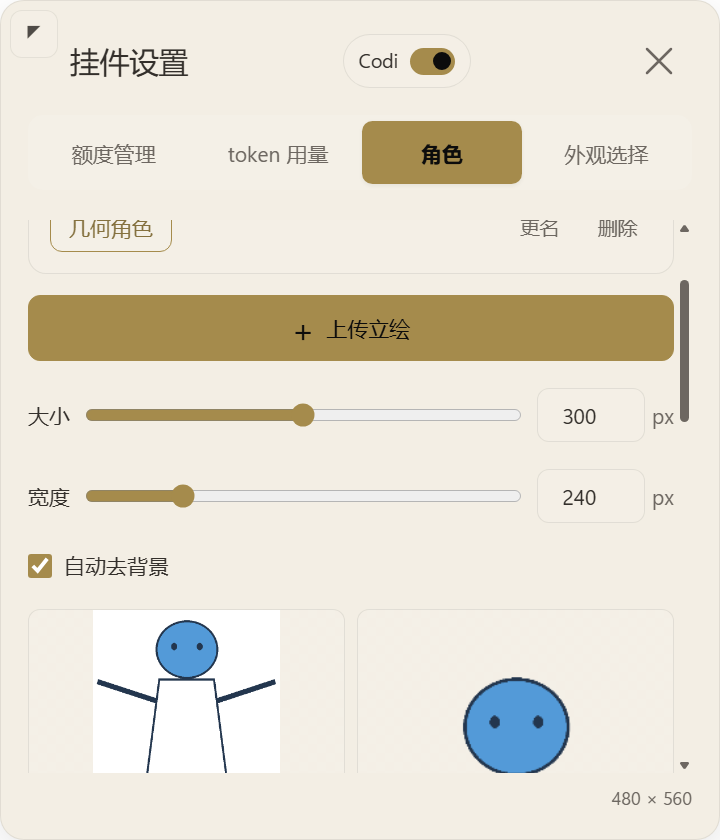
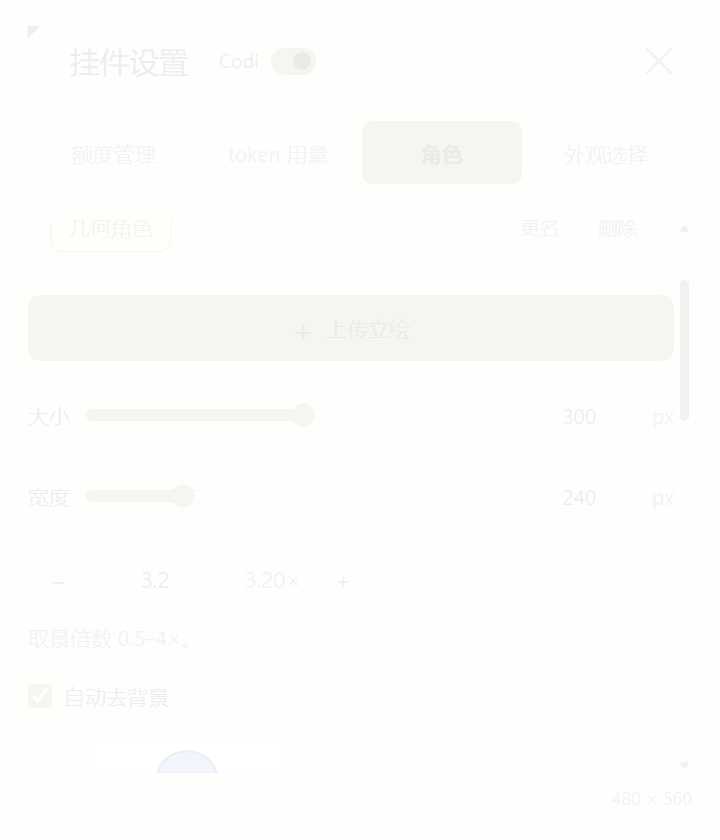
Simplify Codi setup and group widget controls

diff --git a/desktop/ui/index.html b/desktop/ui/index.html
@@ -6,7 +6,7 @@
 <div id="widget" role="button" tabindex="-1" aria-label="额度挂件，拖动移动，点击对话" data-i18n-aria-label="额度挂件，拖动移动，点击对话"><div id="resident-content"><div id="character-stage"><canvas id="character-canvas" width="288" height="160"></canvas></div><small id="window-label"></small><div class="compact-line"><div id="compact-track" class="track"><div id="compact-fill" class="fill"></div></div><strong id="status">暂无可用额度数据</strong><button id="settings-open" tabindex="-1" aria-label="设置" data-i18n-aria-label="设置" title="设置" data-i18n-title="设置">⚙</button></div></div></div>
 <button id="codi-launcher" type="button" role="switch" aria-checked="false" aria-label="开启 Codi" data-i18n-aria-label="开启 Codi" title="开启 Codi" data-i18n-title="开启 Codi" hidden><span>Codi</span><span class="codi-switch-track" aria-hidden="true"><i></i></span></button>
 <section id="speech" hidden aria-live="polite"><svg class="speech-cloud" viewBox="0 0 280 152" preserveAspectRatio="none" aria-hidden="true" focusable="false"><path d="M26 25 C17 6 58 0 85 12 C109 -1 156 3 169 14 C205 0 246 7 248 28 C277 35 282 69 260 81 C270 104 240 125 213 118 L189 140 L184 118 C156 130 120 126 104 116 C70 130 27 119 30 97 C4 97 -1 55 20 44 C12 35 17 28 26 25Z"/></svg><p id="speech-text"></p><div class="speech-data"><span id="speech-reset"></span><span id="speech-credits"></span></div></section>
-<section id="details" hidden aria-label="额度与用量详情" data-i18n-aria-label="额度与用量详情"><div class="panel-toolbar"><span class="panel-title" data-i18n="挂件设置">挂件设置</span><button id="codi-power" type="button" role="switch" aria-checked="true" aria-label="关闭 Codi" data-i18n-aria-label="关闭 Codi" title="关闭 Codi" data-i18n-title="关闭 Codi"><span>Codi</span><span class="codi-switch-track" aria-hidden="true"><i></i></span></button><button id="close" tabindex="-1" aria-label="收起详情" data-i18n-aria-label="收起详情"><svg viewBox="0 0 24 24" aria-hidden="true"><path d="M4 4L20 20M20 4L4 20"/></svg></button></div><header><nav role="tablist" aria-label="详情视图" data-i18n-aria-label="详情视图"><button id="quota-tab" role="tab" aria-selected="true" aria-controls="quota-panel" tabindex="-1" data-i18n="额度管理">额度管理</button><button id="token-tab" role="tab" aria-selected="false" aria-controls="token-panel" tabindex="-1" data-i18n="token 用量">token 用量</button><button id="character-tab" role="tab" aria-selected="false" aria-controls="character-panel" tabindex="-1" data-i18n="角色">角色</button><button id="appearance-tab" role="tab" aria-selected="false" aria-controls="appearance-panel" data-i18n="外观选择">外观选择</button></nav></header><div id="panel-body"><p id="panel-error" role="alert"></p>
+<section id="details" hidden aria-label="额度与用量详情" data-i18n-aria-label="额度与用量详情"><div class="panel-toolbar"><div class="panel-heading"><span class="panel-title" data-i18n="挂件设置">挂件设置</span><button id="codi-power" type="button" role="switch" aria-checked="true" aria-label="关闭 Codi" data-i18n-aria-label="关闭 Codi" title="关闭 Codi" data-i18n-title="关闭 Codi"><span>Codi</span><span class="codi-switch-track" aria-hidden="true"><i></i></span></button></div><button id="close" tabindex="-1" aria-label="收起详情" data-i18n-aria-label="收起详情"><svg viewBox="0 0 24 24" aria-hidden="true"><path d="M4 4L20 20M20 4L4 20"/></svg></button></div><header><nav role="tablist" aria-label="详情视图" data-i18n-aria-label="详情视图"><button id="quota-tab" role="tab" aria-selected="true" aria-controls="quota-panel" tabindex="-1" data-i18n="额度管理">额度管理</button><button id="token-tab" role="tab" aria-selected="false" aria-controls="token-panel" tabindex="-1" data-i18n="token 用量">token 用量</button><button id="character-tab" role="tab" aria-selected="false" aria-controls="character-panel" tabindex="-1" data-i18n="角色">角色</button><button id="appearance-tab" role="tab" aria-selected="false" aria-controls="appearance-panel" data-i18n="外观选择">外观选择</button></nav></header><div id="panel-body"><p id="panel-error" role="alert"></p>
 <div id="quota-panel" role="tabpanel" aria-labelledby="quota-tab"><div class="language-setting"><span data-i18n="语言">语言</span><div id="language-select" class="segmented" role="group" aria-label="语言" data-i18n-aria-label="语言"><button type="button" data-language="zh-CN" aria-pressed="true">简体中文</button><button type="button" data-language="en-US" aria-pressed="false">English</button></div></div><div id="cards"></div><p id="metadata"></p><footer><span data-i18n="Codex / Work 共享额度池">Codex / Work 共享额度池</span><details class="data-notes"><summary data-i18n="额度说明">额度说明</summary><p data-i18n="Codex / Work / 工作空间智能体 / ChatGPT for Excel 共享池。Chat 模式下的对话不计入此用量。数据来自 Codex 自己的额度接口，非本插件估算。">Codex / Work / 工作空间智能体 / ChatGPT for Excel 共享池。Chat 模式下的对话不计入此用量。数据来自 Codex 自己的额度接口，非本插件估算。</p></details></footer></div>
 <div id="token-panel" role="tabpanel" aria-labelledby="token-tab" hidden>
   <div class="section-heading"><h2 data-i18n="Token 用量">Token 用量</h2><p data-i18n="查看本机用量随时间的变化">查看本机用量随时间的变化</p></div>
@@ -16,7 +16,7 @@
   <details id="token-exact" class="data-notes"><summary data-i18n="精确数值">精确数值</summary><dl id="token-exact-values"></dl></details></article>
   <p id="token-status" role="status">索引中</p><p id="token-updated"></p><footer id="token-statement"><span data-i18n="仅本机现存会话 · 非账户官方统计">仅本机现存会话 · 非账户官方统计</span><details class="data-notes"><summary data-i18n="统计口径">统计口径</summary><p id="token-coverage">索引中</p><p data-i18n="按本机时间展示最近 24 个小时、7 个日期或 30 个日期。总数等于当前柱形之和，不含已删除会话或其他电脑。">按本机时间展示最近 24 个小时、7 个日期或 30 个日期。总数等于当前柱形之和，不含已删除会话或其他电脑。</p></details></footer>
 </div>
-<div id="character-panel" role="tabpanel" aria-labelledby="character-tab" hidden><div class="section-heading"><h2 data-i18n="立绘设置">立绘设置</h2><p data-i18n="上传一张图片，调整角色的大小与取景">上传一张图片，调整角色的大小与取景</p></div><div class="settings-group"><div class="character-manager"><div id="character-list"></div><div class="character-actions"><button id="character-rename" tabindex="-1" data-i18n="更名">更名</button><button id="character-delete" tabindex="-1" data-i18n="删除">删除</button></div></div><button id="character-upload" class="upload-character" tabindex="-1" data-i18n="上传立绘">上传立绘</button><label class="character-option"><span data-i18n="大小">大小</span> <input id="character-size" type="range" min="180" max="420" step="1" tabindex="-1"><span class="dimension-value"><input id="character-size-value" type="number" min="180" max="420" step="1" value="280" aria-label="大小" data-i18n-aria-label="大小"><span>px</span></span></label><label class="character-option"><span data-i18n="宽度">宽度</span><input id="character-width" type="range" min="126" max="672" step="1"><span class="dimension-value"><input id="character-width-value" type="number" min="126" max="672" step="1" value="199" aria-label="宽度" data-i18n-aria-label="宽度"><span>px</span></span></label><label class="character-option"><input id="character-background" type="checkbox" tabindex="-1" checked><span data-i18n="自动去背景">自动去背景</span></label><div class="character-previews"><figure><img id="character-original" alt="原图预览"><figcaption data-i18n="原图">原图</figcaption></figure><figure><canvas id="character-processed" width="240" height="180"></canvas><figcaption data-i18n="显示效果">显示效果</figcaption></figure></div><p id="character-processing" role="status"></p><label class="framing-adjust"><button id="character-zoom-minus" type="button" aria-label="缩小取景" data-i18n-aria-label="缩小取景">−</button><input id="character-zoom" type="number" min="0.5" max="4" step="0.05" aria-label="取景缩放" data-i18n-aria-label="取景缩放"><span id="character-zoom-value">1×</span><button id="character-zoom-plus" type="button" aria-label="放大取景" data-i18n-aria-label="放大取景">+</button></label><p class="character-help" data-i18n="取景倍数 0.5–4×。">取景倍数 0.5–4×。</p><label class="character-option"><input id="resident-dock" type="checkbox" checked><span data-i18n="固定右下角，随窗口缩放">固定右下角，随窗口缩放</span></label><button id="character-reset" tabindex="-1" data-i18n="重置取景">重置取景</button><button id="position-reset" tabindex="-1" data-i18n="重置位置">重置位置</button><p id="character-error" role="alert"></p></div><fieldset class="dialogue-settings"><legend data-i18n="点击对话">点击对话</legend><label><span data-i18n="第一段对话">第一段对话</span><textarea id="dialogue-first" maxlength="240" rows="3"></textarea></label><label><span data-i18n="第二段对话">第二段对话</span><textarea id="dialogue-second" maxlength="240" rows="3"></textarea></label><div class="dialogue-actions"><button id="dialogue-save" data-i18n="保存对话">保存对话</button><button id="dialogue-cancel" data-i18n="取消编辑">取消编辑</button></div><p id="dialogue-message" role="status"></p></fieldset><footer id="character-notice" data-i18n="请上传你有权使用的图片。素材保存在本机，不会上传。">请上传你有权使用的图片。素材保存在本机，不会上传。</footer></div>
+<div id="character-panel" role="tabpanel" aria-labelledby="character-tab" hidden><div class="section-heading"><h2 data-i18n="立绘设置">立绘设置</h2><p data-i18n="上传一张图片，调整角色的大小与取景">上传一张图片，调整角色的大小与取景</p></div><div class="settings-group"><div class="character-manager"><div id="character-list"></div><div class="character-actions"><button id="character-rename" tabindex="-1" data-i18n="更名">更名</button><button id="character-delete" tabindex="-1" data-i18n="删除">删除</button></div></div><button id="character-upload" class="upload-character" tabindex="-1" data-i18n="上传立绘">上传立绘</button><label class="character-option"><span data-i18n="大小">大小</span> <input id="character-size" type="range" min="180" max="420" step="1" tabindex="-1"><span class="dimension-value"><input id="character-size-value" type="number" min="180" max="420" step="1" value="280" aria-label="大小" data-i18n-aria-label="大小"><span>px</span></span></label><label class="character-option"><span data-i18n="宽度">宽度</span><input id="character-width" type="range" min="126" max="672" step="1"><span class="dimension-value"><input id="character-width-value" type="number" min="126" max="672" step="1" value="199" aria-label="宽度" data-i18n-aria-label="宽度"><span>px</span></span></label><label class="framing-adjust"><button id="character-zoom-minus" type="button" aria-label="缩小取景" data-i18n-aria-label="缩小取景">−</button><input id="character-zoom" type="number" min="0.5" max="4" step="0.05" aria-label="取景缩放" data-i18n-aria-label="取景缩放"><span id="character-zoom-value">1×</span><button id="character-zoom-plus" type="button" aria-label="放大取景" data-i18n-aria-label="放大取景">+</button></label><p class="character-help" data-i18n="取景倍数 0.5–4×。">取景倍数 0.5–4×。</p><label class="character-option"><input id="character-background" type="checkbox" tabindex="-1" checked><span data-i18n="自动去背景">自动去背景</span></label><div class="character-previews"><figure><img id="character-original" alt="原图预览"><figcaption data-i18n="原图">原图</figcaption></figure><figure><canvas id="character-processed" width="240" height="180"></canvas><figcaption data-i18n="显示效果">显示效果</figcaption></figure></div><p id="character-processing" role="status"></p><label class="character-option"><input id="resident-dock" type="checkbox" checked><span data-i18n="固定右下角，随窗口缩放">固定右下角，随窗口缩放</span></label><button id="character-reset" tabindex="-1" data-i18n="重置取景">重置取景</button><button id="position-reset" tabindex="-1" data-i18n="重置位置">重置位置</button><p id="character-error" role="alert"></p></div><fieldset class="dialogue-settings"><legend data-i18n="点击对话">点击对话</legend><label><span data-i18n="第一段对话">第一段对话</span><textarea id="dialogue-first" maxlength="240" rows="3"></textarea></label><label><span data-i18n="第二段对话">第二段对话</span><textarea id="dialogue-second" maxlength="240" rows="3"></textarea></label><div class="dialogue-actions"><button id="dialogue-save" data-i18n="保存对话">保存对话</button><button id="dialogue-cancel" data-i18n="取消编辑">取消编辑</button></div><p id="dialogue-message" role="status"></p></fieldset><footer id="character-notice" data-i18n="请上传你有权使用的图片。素材保存在本机，不会上传。">请上传你有权使用的图片。素材保存在本机，不会上传。</footer></div>
 <div id="appearance-panel" role="tabpanel" aria-labelledby="appearance-tab" hidden>
 <h2 class="appearance-heading" data-i18n="主题色">主题色</h2><p class="appearance-intro" data-i18n="选择一套双配色，卡片与进度条一起变化。">选择一套双配色，卡片与进度条一起变化。</p><div id="palette-presets" class="palette-options" aria-label="卡片主题配色" data-i18n-aria-label="卡片主题配色"></div><button id="custom-palette" class="custom-palette-choice" type="button" aria-pressed="false"><span data-i18n="自定义配色">自定义配色</span><span class="custom-palette-swatches" aria-hidden="true"><i id="custom-base-swatch"></i><i id="custom-accent-swatch"></i></span></button>
 <div id="custom-palette-editor" class="custom-palette-editor" hidden><div class="custom-color-row"><span data-i18n="卡片底色">卡片底色</span><button id="custom-base-color" class="color-swatch" type="button" aria-label="卡片底色" data-i18n-aria-label="卡片底色"></button><input id="custom-base-hex" maxlength="7" value="#e9e5df" aria-label="底色色值" data-i18n-aria-label="底色色值" spellcheck="false"></div><div class="custom-color-row"><span data-i18n="强调色">强调色</span><button id="custom-accent-color" class="color-swatch" type="button" aria-label="强调色" data-i18n-aria-label="强调色"></button><input id="custom-accent-hex" maxlength="7" value="#786c60" aria-label="强调色色值" data-i18n-aria-label="强调色色值" spellcheck="false"></div><div id="custom-color-picker" class="inline-color-picker" hidden><span id="custom-color-title"></span><canvas id="custom-color-plane" width="256" height="160" aria-hidden="true"></canvas><label class="custom-hue-label"><span data-i18n="色相">色相</span><input id="custom-color-hue" type="range" min="0" max="360" step="1" value="0" aria-label="色相" data-i18n-aria-label="色相"></label></div><p class="character-help" data-i18n="选择颜色或填写色值，自动保存。">选择颜色或填写色值，自动保存。</p></div><p id="appearance-adjustment" class="appearance-note" role="status"></p><p id="appearance-error" role="alert"></p>

diff --git a/desktop/ui/character-settings.js b/desktop/ui/character-settings.js
@@ -1,6 +1,7 @@
 (()=>{
   const $=id=>document.getElementById(id);
   let snapshot={active:null,characters:[]},timer,panStart,content=null,lastSize='',reportedWidth=199;
+  const pendingSettings=new Map();
   const active=()=>snapshot.characters.find(c=>c.name===snapshot.active),error=text=>{$('character-error').dataset.i18n=text;$('character-error').textContent=window.uiText.t(text);};
   function displayNumber(id,value){if(document.activeElement!==$(id))$(id).value=value;}
   function reportSize(view){
@@ -13,7 +14,7 @@
   }
   const live=new LocalImagePlayer($('character-canvas'),()=>{},value=>{content=value;reportSize(characterView.characterView(active()));}),preview=new LocalImagePlayer($('character-processed'),(text,bad)=>{$('character-processing').dataset.i18n=text;$('character-processing').textContent=window.uiText.t(text);if(bad)error(text);});
   window.resizeCharacter=(width,height)=>{const scale=window.devicePixelRatio||1;live.resize(Math.max(1,Math.round(width*scale)),Math.max(1,Math.round(window.portraitGeometry.stageHeight(height)*scale)));};
-  async function action(value){try{const q=await window.widget.characterAction({...value,language:window.uiText.language});if(!q.ok)error(q.error);else error('');}catch{error('角色操作失败，请重试。');}}
+  async function action(value){try{const q=await window.widget.characterAction({...value,language:window.uiText.language});if(!q.ok)error(q.error);else error('');return q;}catch{error('角色操作失败，请重试。');return {ok:false};}}
   window.renderCharacter=()=>{if(window.codiEnabled===false)return;const view=characterView.characterView(active());live.frame(view.settings);live.load(view.url,view.settings.background);reportSize(view);};
   function renderPreview(){const view=characterView.characterView(active());$('character-original').src=view.url;preview.frame(view.settings);preview.load(view.url,view.settings.background);}
   function render(){
@@ -23,9 +24,9 @@
     const zoom=role?.settings.zoom||1;
     $('character-background').checked=role?.settings.background??true;$('character-zoom').value=zoom;$('character-zoom-value').textContent=zoom.toFixed(2)+'×';$('character-size').value=role?.settings.targetHeight??280;displayNumber('character-size-value',role?.settings.targetHeight??280);renderPreview();window.renderCharacter();
   }
-  function flush(){clearTimeout(timer);const role=active();if(role)action({action:'settings',name:role.name,patch:role.settings});}
-  function changed(patch){const role=active();if(!role)return;if(patch.zoom!==undefined&&role.settings.targetWidth===undefined)patch.targetWidth=reportedWidth;Object.assign(role.settings,patch);$('character-zoom').value=role.settings.zoom;$('character-zoom-value').textContent=role.settings.zoom.toFixed(2)+'×';$('character-size').value=role.settings.targetHeight??280;displayNumber('character-size-value',role.settings.targetHeight??280);renderPreview();window.renderCharacter();clearTimeout(timer);timer=setTimeout(flush,150);}
-  window.widget.characters(value=>{snapshot=value;render();});
+  function flush(){clearTimeout(timer);const role=active(),draft=role&&pendingSettings.get(role.name);if(draft)action({action:'settings',name:role.name,patch:{...draft}}).then(result=>{if(result.ok&&pendingSettings.get(role.name)===draft)pendingSettings.delete(role.name);});}
+  function changed(patch){const role=active();if(!role)return;if(patch.zoom!==undefined&&role.settings.targetWidth===undefined)patch.targetWidth=reportedWidth;Object.assign(role.settings,patch);pendingSettings.set(role.name,{...role.settings});$('character-zoom').value=role.settings.zoom;$('character-zoom-value').textContent=role.settings.zoom.toFixed(2)+'×';$('character-size').value=role.settings.targetHeight??280;displayNumber('character-size-value',role.settings.targetHeight??280);renderPreview();window.renderCharacter();clearTimeout(timer);timer=setTimeout(flush,150);}
+  window.widget.characters(value=>{for(const role of value.characters){const draft=pendingSettings.get(role.name);if(draft)Object.assign(role.settings,draft);}snapshot=value;render();});
   $('character-rename').onclick=()=>active()&&action({action:'rename',name:active().name});$('character-delete').onclick=()=>active()&&action({action:'delete',name:active().name});
   $('character-upload').onclick=()=>{flush();action({action:'import'});};
   $('character-background').onchange=()=>changed({background:$('character-background').checked});$('character-zoom').oninput=()=>{const zoom=Number($('character-zoom').value);if(Number.isFinite(zoom)&&zoom>=.5&&zoom<=4)changed({zoom});};$('character-zoom').onchange=()=>{$('character-zoom').value=active()?.settings.zoom||1;flush();};

diff --git a/desktop/ui/style.css b/desktop/ui/style.css
@@ -196,6 +196,7 @@ article{padding:18px;margin-bottom:14px}.card-row{margin:12px 0 14px;align-items
 
 #codi-power,#codi-launcher{display:flex;align-items:center;justify-content:center;gap:8px;min-height:36px;flex:none;padding:6px 10px;border:1px solid var(--border-subtle);border-radius:18px;background:var(--bg-elevated);color:var(--text-primary);font-size:13px}
 #codi-launcher{position:absolute;box-sizing:border-box;overflow:hidden;min-height:0;padding:4px 8px;border-radius:14px}
+.panel-heading{display:flex;align-items:center;gap:10px;min-width:0}
 .codi-switch-track{display:block;position:relative;flex:none;width:30px;height:18px;border-radius:9px;background:var(--text-secondary)}
 .codi-switch-track i{position:absolute;width:12px;height:12px;top:3px;left:3px;border-radius:50%;background:var(--bg-elevated)}
 [aria-checked="true"]>.codi-switch-track{background:var(--accent)}

diff --git a/README.md b/README.md
@@ -4,9 +4,11 @@
   <a href="README.md">English</a> | <a href="README.zh-CN.md">中文</a>
 </p>
 
-Your Codex desktop companion: a character widget with quota monitoring, local token usage charts, and customizable dialogue. Previously named **codex-quota-widget**.
+Your Codex desktop companion: a character widget with quota monitoring, local token usage charts, and customizable dialogue.
 
 > Codi currently supports **Windows x64 and the Codex desktop app**. It reads quota and local usage data without generating model responses. Your character images stay on your computer.
+
+**Character tip:** use a chibi-style character with a transparent background and the full body inside the image. Its compact proportions are easier to see in a small widget. Regular character artwork works too.
 
 ## Features
 
@@ -39,9 +41,22 @@ MSVC, C++ native modules, and an additional C# SDK are not required. macOS and L
 
 ## Installation
 
-The current installer requires the source directory **`%USERPROFILE%\plugins\codex-quota-widget`**. The GitHub repository is named Codi; keep this local folder name because the installer checks it.
+### Option 1: ask Codex to install it
 
-Run in PowerShell:
+Open a local chat in the Codex desktop app and paste this prompt:
+
+```text
+Please install Codi on this Windows computer: https://github.com/Chester-chs/Codi.
+Check that Codex, Git, and Node.js 24+ are available, and help install missing dependencies.
+Place the project in %USERPROFILE%\plugins\codex-quota-widget. If it already exists, check it first and preserve my local changes, characters, and settings.
+From the project folder, run: powershell.exe -NoProfile -ExecutionPolicy Bypass -File scripts\install.ps1.
+Verify that Codi appears in Codex and explain how to use its visible switch. If Codex needs restarting, ask me to restart it myself.
+```
+
+### Option 2: install it yourself
+
+1. Install and sign in to Codex desktop. Install **Node.js 24+** and **Git** if needed.
+2. Open the Windows Start menu, search for **PowerShell**, and open it. Copy and run these lines:
 
 ```powershell
 New-Item -ItemType Directory -Force "$env:USERPROFILE\plugins" | Out-Null
@@ -50,11 +65,11 @@ Set-Location "$env:USERPROFILE\plugins\codex-quota-widget"
 powershell.exe -NoProfile -ExecutionPolicy Bypass -File scripts\install.ps1
 ```
 
-If that directory already contains your installation, update it instead of cloning over it. While the repository is private, cloning requires GitHub access to it.
+3. Wait for installation to finish. Fully quit and reopen Codex, then open a new chat. Codi should appear at the bottom-right.
 
-The installer downloads the pinned Electron runtime, adds Codi to the personal Codex plugin marketplace, and starts the widget. By default, it also registers the current user's Windows login task **`Codex Quota Widget`**, without administrator privileges. Use `-NoStartup` to skip creating that task or `-NoStart` to skip starting immediately.
+Use the folder shown above: the installer checks its location. If you already installed Codi, use Option 1 to update it instead of cloning again. While the repository is private, your GitHub account needs access to download it.
 
-After first installation or an MCP service update, fully quit and reopen Codex, then start a new chat to load the updated MCP service.
+Installation also enables Windows login startup by default. To skip that, add `-NoStartup` to the installation command; add `-NoStart` to skip starting immediately. After a later MCP service update, restart Codex and open a new chat again.
 
 ## On / off inside Codex
 
@@ -117,7 +132,7 @@ The overlay is shaped around visible regions; outside regions pass input to Code
 
 Detailed records: [window docking and dimension controls](docs/resident-docking-width-verification.md), [visible switch](docs/codi-switch-verification.md), [drag performance](docs/drag-performance-verification.md), [UI and token charts](docs/ui-redesign-verification.md), and [character formats](docs/character-formats-verification.md). Older stage records document earlier behavior.
 
-The plugin ID, runtime data directory, and login task retain their original identifiers for compatibility. The repository and plugin display name are **Codi**. The `v1.0` tag preserves an earlier rollback snapshot; it is not the plugin manifest version.
+Use the installation and data paths listed above. The `v1.0` tag preserves an earlier rollback snapshot; it is not the plugin manifest version.
 
 ## License
 

diff --git a/README.zh-CN.md b/README.zh-CN.md
@@ -4,9 +4,11 @@
   <a href="README.md">English</a> | <a href="README.zh-CN.md">中文</a>
 </p>
 
-你的 Codex 桌面小伙伴：查看额度、统计本机 token 用量、自定义角色与对话。项目原名 **codex-quota-widget（Codex 额度挂件）**。
+你的 Codex 桌面小伙伴：查看额度、统计本机 token 用量、自定义角色与对话。
 
 > 当前支持 **Windows x64 与 Codex 桌面应用**。Codi 只读取额度和本机用量，不生成模型回复。角色图片始终留在本机。
+
+**形象建议**：推荐使用透明背景、全身完整的 **Q 版角色**。比例紧凑，在小挂件中更容易看清。普通立绘也可以使用。
 
 ## 功能
 
@@ -39,9 +41,22 @@
 
 ## 安装
 
-当前安装脚本要求源码位于 **`%USERPROFILE%\plugins\codex-quota-widget`**。GitHub 仓库已叫 Codi，但本机目录请保留这个名称，因为安装脚本会校验路径。
+### 方法一：让 Codex 帮你安装
 
-在 PowerShell 中运行：
+在 Codex 桌面版新建一个本机聊天，把下面这段话发给它：
+
+```text
+请帮我在这台 Windows 电脑上安装 Codi：https://github.com/Chester-chs/Codi。
+先检查 Codex、Git 和 Node.js 24+，缺少依赖请协助安装。
+把项目放在 %USERPROFILE%\plugins\codex-quota-widget。若目录已存在，先检查，保留我的本地修改、角色和设置。
+在项目目录运行：powershell.exe -NoProfile -ExecutionPolicy Bypass -File scripts\install.ps1。
+安装后确认 Codi 能在 Codex 中显示，并告诉我如何使用可见开关。如果需要重启 Codex，请提醒我自行重启。
+```
+
+### 方法二：自己安装
+
+1. 安装并登录 Codex 桌面版。没有 **Node.js 24+** 和 **Git** 的话，先安装这两个工具。
+2. 打开 Windows 开始菜单，搜索 **PowerShell** 并打开，复制运行下面几行：
 
 ```powershell
 New-Item -ItemType Directory -Force "$env:USERPROFILE\plugins" | Out-Null
@@ -50,11 +65,11 @@ Set-Location "$env:USERPROFILE\plugins\codex-quota-widget"
 powershell.exe -NoProfile -ExecutionPolicy Bypass -File scripts\install.ps1
 ```
 
-若目录已有安装，请更新已有仓库，不要覆盖克隆。仓库保持私有时，克隆需要对应 GitHub 访问权限。
+3. 等安装完成后，完全退出并重新打开 Codex，再新建一个聊天。Codi 应出现在右下角。
 
-安装程序下载锁定的 Electron 运行时，将 Codi 加入 Codex 个人插件市场，并启动挂件。默认注册当前用户的 Windows 登录任务 **`Codex Quota Widget`**，无需管理员权限。加 `-NoStartup` 可跳过创建登录任务，加 `-NoStart` 可跳过立即启动。
+请使用上面的安装目录，脚本会检查路径。已经安装过的话，用方法一让 Codex 帮你更新，不要重复克隆。仓库保持私有时，你的 GitHub 账号需要有下载权限。
 
-首次安装或更新 MCP 服务后，请完全退出并重开 Codex，再新建聊天以加载更新后的服务。
+安装后默认随 Windows 登录启动。不需要自启，可在安装命令末尾加 `-NoStartup`；加 `-NoStart` 则不立即启动。之后更新 MCP 服务，也需要重新打开 Codex 并新建聊天。
 
 ## 在 Codex 中开启与关闭
 
@@ -117,7 +132,7 @@ powershell.exe -NoProfile -ExecutionPolicy Bypass -File scripts\verify.ps1 -Nati
 
 详细记录：[右下角固定与尺寸控件](docs/resident-docking-width-verification.md)、[可见开关](docs/codi-switch-verification.md)、[拖动性能](docs/drag-performance-verification.md)、[界面与 token 图表](docs/ui-redesign-verification.md)、[图片格式](docs/character-formats-verification.md)。较早的阶段记录描述的是当时实现。
 
-为了兼容已有安装，插件 ID、数据目录和登录任务仍保留原标识；仓库及插件显示名称为 **Codi**。`v1.0` 标签是早期回退快照，不是插件清单中的版本号。
+安装与数据目录请使用上面列出的路径。`v1.0` 标签是早期回退快照，不是插件清单中的版本号。
 
 ## 许可证
 

diff --git a/docs/codi-switch-verification.md b/docs/codi-switch-verification.md
@@ -34,3 +34,15 @@ GitHub 仓库改名为 Chester-chs/Codi，保留私有属性；本地 origin 指
 ## 本机部署
 
 stop → 更新缓存 → start 完成。源码与缓存 **199/199** 文件 SHA256 一致，部署前后用户素材及偏好 **7/7** 文件哈希一致。缓存进程 PID **18436**，visible=true、focused=false，用户当前尺寸 **300×253 @ (1383,742)**，视口 1707×1019。原始部署记录为运行时 resident-dock-deployment.json。文档补记后再次同步并核对哈希。
+
+## 后续整理：安装说明与控件分组（2026-10-11）
+
+中英文 README 将安装改为两种方法：优先复制提示词让 Codex 检查依赖并安装，或按三步手动安装。提示词保留固定安装路径、现有数据与修改，并由用户自行重启 Codex；文档同时说明私有仓库下载权限。新增透明背景、全身完整 Q 版形象建议，普通立绘仍可使用；删除项目原名介绍。
+
+角色页按「大小 → 宽度 → 取景倍数」相邻排列，取景不再放在预览下方。顶部标题与 Codi 开关使用同一布局分组，间距 10 DIP，关闭按钮留在右侧。隐藏 Electron 对两处相邻关系及标题／开关实际间距新增断言，修改前失败、修改后通过，截图更新为当前布局。
+
+连续尺寸编辑测试发现旧保存快照偶尔覆盖新编辑：360 的保存回执将尚未保存的 240 恢复为 360。现在按角色保留最新本地草稿；服务端快照到达时合并未完成的草稿，仅最新保存成功的回执解除保护。回归验证旧回执不能覆盖 240，240 保存确认后仍可接收外部新快照 280，未通过忽略所有快照来掩盖问题。
+
+`scripts/verify.ps1 -Native`：**111/111** 通过，10 个异常 shape 输入仍回退 1×1 DIP；`Invoke-ResidentSmoke.ps1` 及 `-Restart` 再次通过，数字编辑、卡片稳定、关闭状态重启及小开关恢复正常。测试只使用本机占位数据，不操作用户鼠标。README 的语言互链、安装提示词和相对文件链接均已校验。
+
+本次部署：源码与缓存 **200/200** 文件 SHA256 一致，用户素材及偏好 **7/7** 文件保持一致。缓存进程 PID **6920**，visible=true、focused=false；CardSmoke 亦通过。文档补记后再次同步并核对全部文件。
